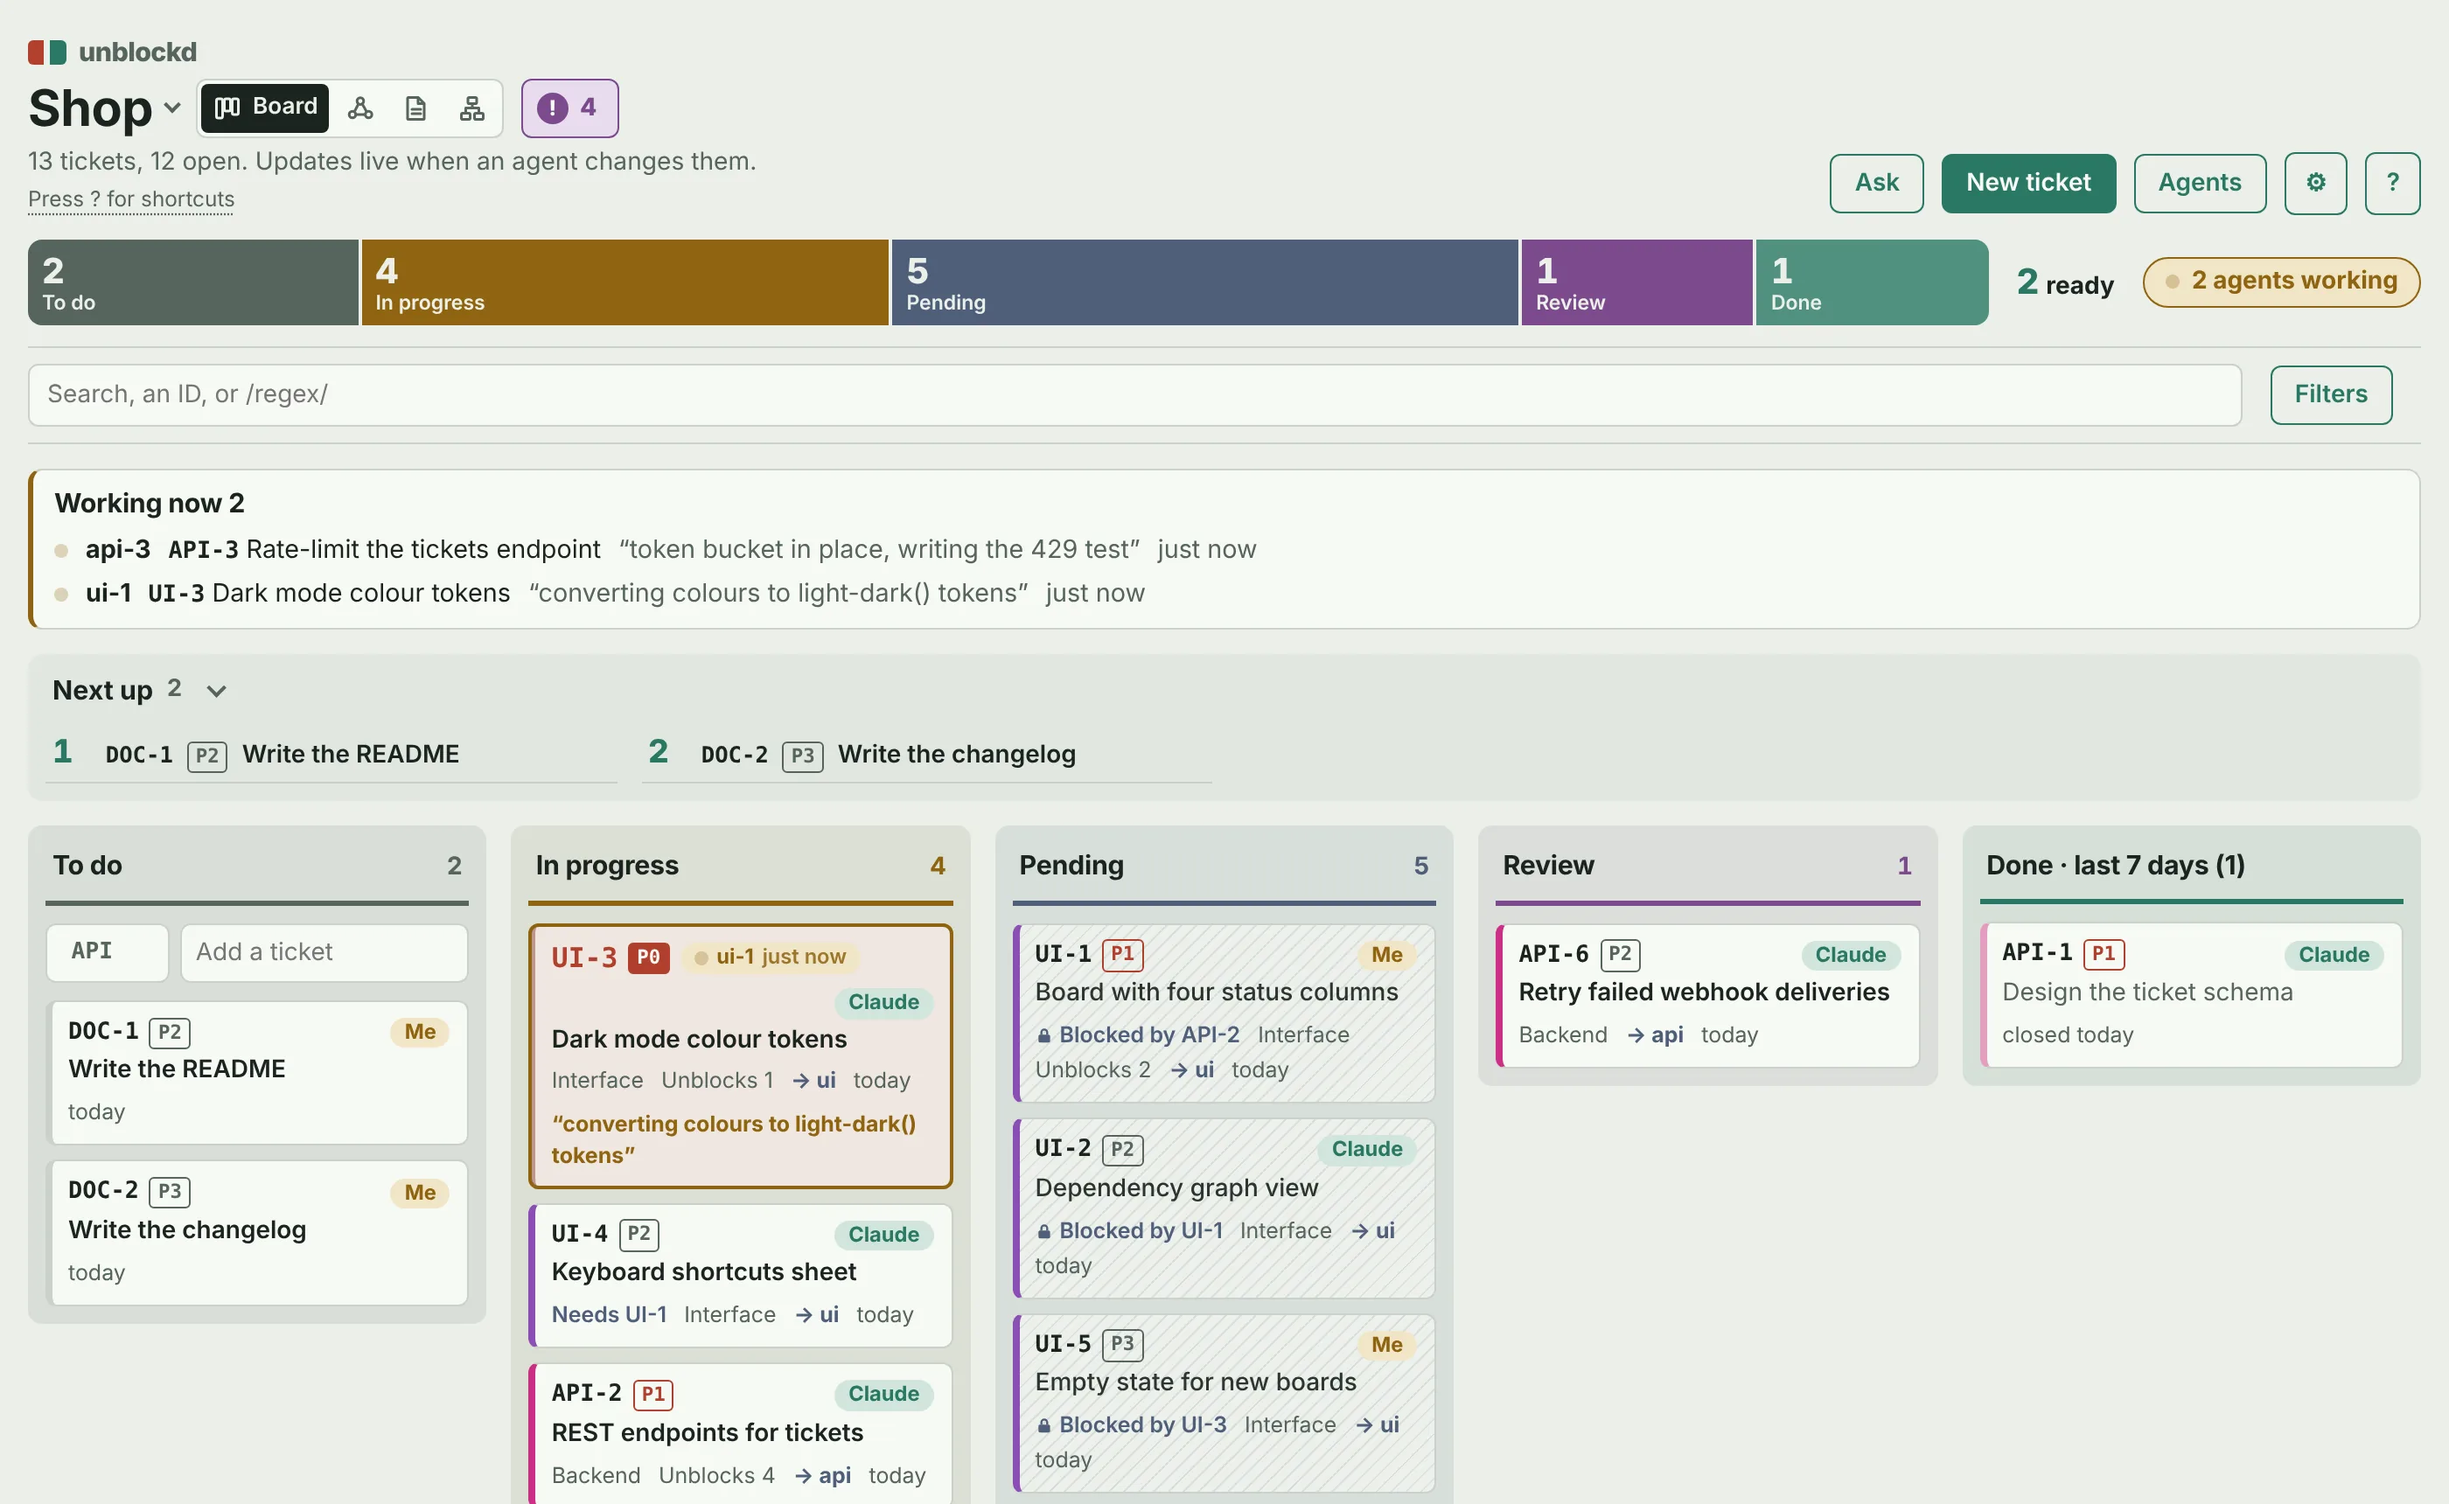
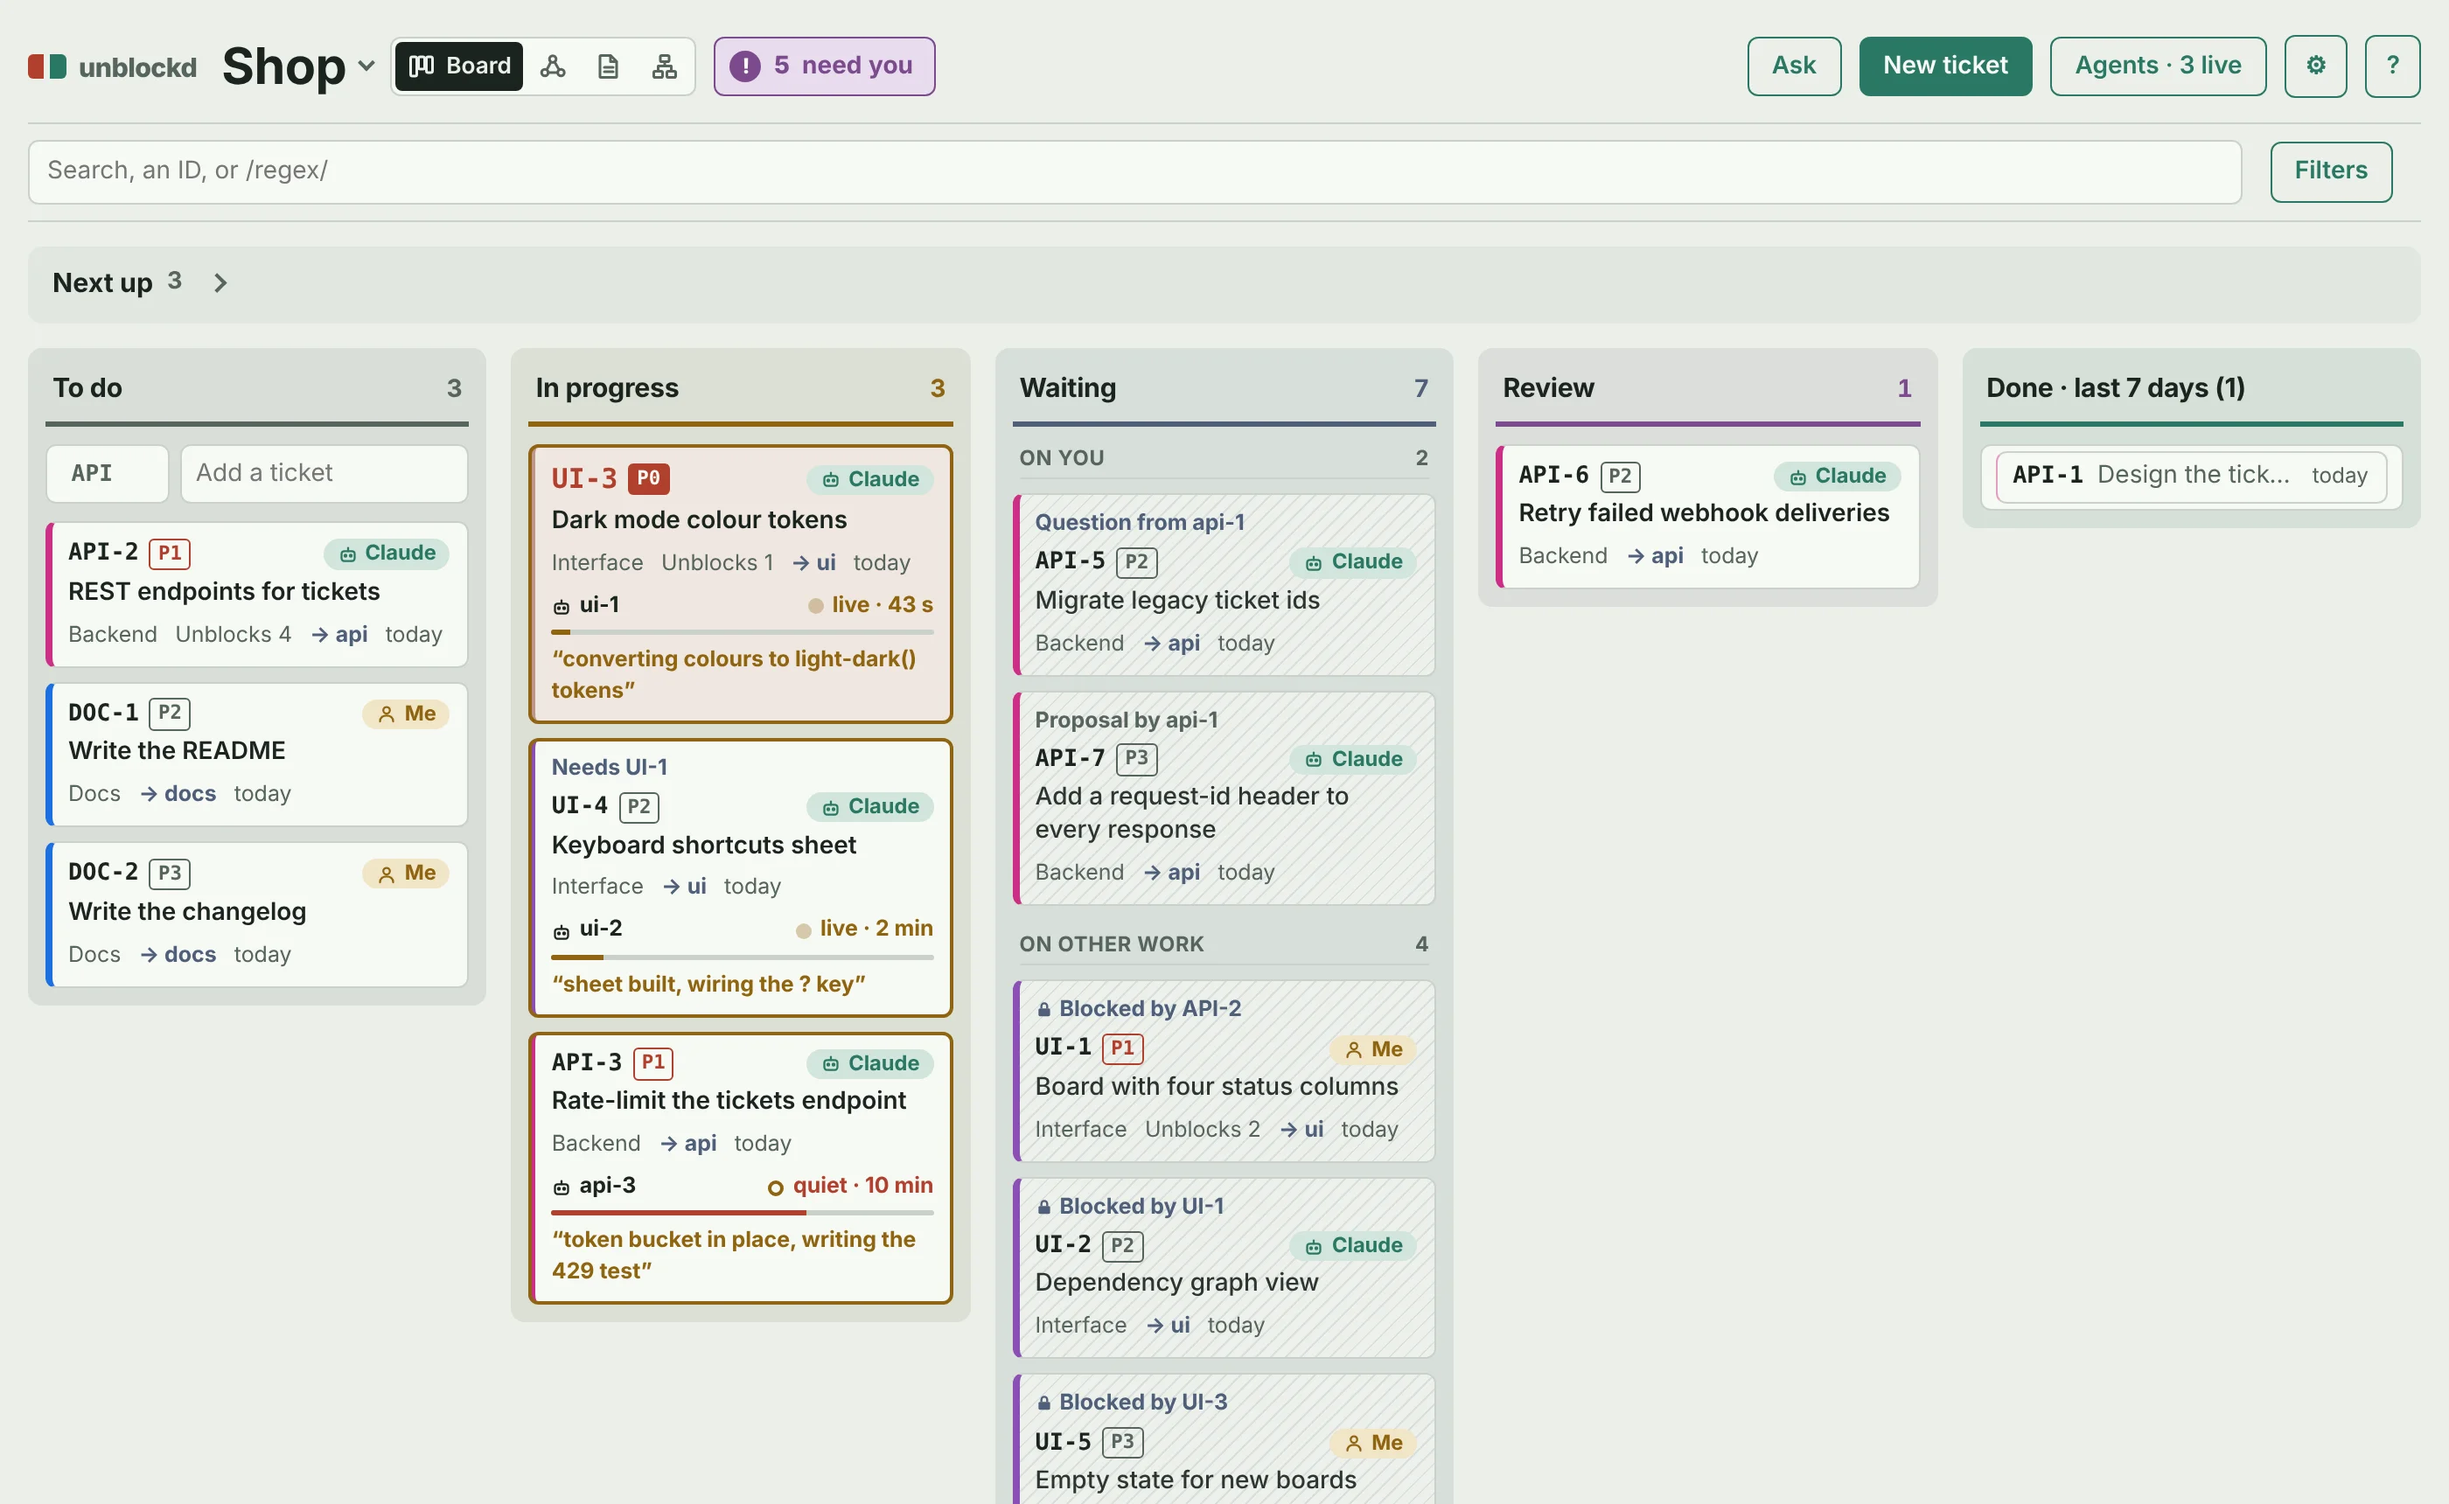
README: new screenshots and text for the Calm Ledger 2 board
Reshoot all 8 README images (same names and sizes) on the new UI: one
header row, live/quiet agents with lease bars, Waiting sections, Needs
you with Request changes. Text: liveness, Waiting sections, j/k, the
Waiting label for pending. Kept near the ~1000-word cap by shortening
the empty-claim sentence (docs/reference.md has the detail).

Claude-Session: https://claude.ai/code/session_014vvqBJFzSt5HM1epdwPoxS

diff --git a/README.md b/README.md
@@ -8,7 +8,7 @@ Tickets are JSON files in your repo: reviewed in PRs next to the code, no SaaS, 
 Front doors: web, MCP, CLI, chat (experimental).
 Humans get a live board and dependency graph; agents get lease-based claims, so several work in parallel.
 
-![unblockd board: agents working, tickets in columns, a badge for what needs you](docs/screenshots/board.webp)
+![unblockd board: live and quiet agents on their cards, Waiting split by reason, a badge for what needs you](docs/screenshots/board.webp)
 
 **Why not Trello / Linear / GitHub Projects?** Those track work for people. A ticket here knows what blocks it, which files it touches and which docs a worker must read, and an agent claims, heartbeats and finishes it through MCP or a CLI.
 
@@ -31,7 +31,7 @@ Humans get a live board and dependency graph; agents get lease-based claims, so 
 docker run -d -p 127.0.0.1:8787:8787 -e UNBLOCKD_ALLOW_OPEN=1 -v "$PWD:/projects" ghcr.io/omri2003/unblockd
 ```
 
-On the board, `g` is the graph, `d` the docs agents read, `?` lists shortcuts.
+On the board, `g` is the graph, `d` the docs agents read, `j`/`k` step through cards, `?` lists shortcuts.
 
 **2. Connect Claude Code** (one shared server for all your projects):
 
@@ -39,7 +39,7 @@ On the board, `g` is the graph, `d` the docs agents read, `?` lists shortcuts.
 claude mcp add --transport http --scope user unblockd http://localhost:8788/mcp
 ```
 
-With `UNBLOCKD_TOKEN` set add `--header "Authorization: Bearer <token>"`. Each repo's CLAUDE.md names its board (snippet in docs/reference.md). Then tell Claude: *"use unblockd: run work_plan and work all ready tickets."* Watch cards move. An empty claim returns `{ticket: null, reason}`: `dry` = nothing ready, `conflict` = ready tickets touch files a live claim holds (retry), `waiting` = work exists but is not ready. With agent profiles (the demo has `frontend`, `backend`), worker names must be `<profile>-N`, e.g. `backend-1`.
+With `UNBLOCKD_TOKEN` set add `--header "Authorization: Bearer <token>"`. Each repo's CLAUDE.md names its board (snippet in docs/reference.md). Then tell Claude: *"use unblockd: run work_plan and work all ready tickets."* Watch cards move. An empty claim says why (`dry`, `conflict` = retry, `waiting`; see docs/reference.md). With agent profiles (the demo has `frontend`, `backend`), worker names must be `<profile>-N`, e.g. `backend-1`.
 
 **3. Without Docker** (Python 3.10+; the board and CLI are stdlib only). Run a copy of the demo project, never `example/` itself:
 
@@ -65,7 +65,7 @@ claude mcp list
 
 Expected: `unblockd: python -m unblockd.mcp_server - Connected`. `PYTHONPATH` must be this checkout (not pip-installed).
 
-**In the UI:** the **Needs you** badge (`i`) collects, across all boards, agents' questions, work awaiting review and stuck tickets; answer, approve or reject inline. The title switches boards (`Shift+B`). Priorities: P0 breaks things now, P1 must happen, P2 should, P3 nice to have (`p` then `0`-`3`).
+**In the UI:** a working agent's card says `live · 40 s` or `quiet · 11 min`, with its lease bar. **Waiting** splits by reason: *On you*, *On other work*, *Parked*. The **Needs you** badge (`i`) collects, across all boards, questions, reviews and stuck tickets; answer, approve or *Request changes…* inline. The title switches boards (`Shift+B`). Priorities: P0 breaks things now, P1 must happen, P2 should, P3 nice to have (`p` then `0`-`3`).
 
 ## What your agents see
 
@@ -79,7 +79,7 @@ Map: an agent on one component gets the contracts of the parts it touches.
 
 | Term | Meaning |
 |---|---|
-| **Ticket** | One JSON file in `<project>/tickets/`. Status `todo`, `doing`, `review`, `done` (`pending` is derived: a todo with an open blocker or a `waiting_on` question). |
+| **Ticket** | One JSON file in `<project>/tickets/`. Status `todo`, `doing`, `review`, `done` (`pending` is derived: a todo with an open blocker or a `waiting_on` question; shown as **Waiting**). |
 | **Ready** | Open, nothing open blocks it, not human-owned, not waiting on a person. Agents only claim ready tickets. |
 | **Blocked / pending** | Derived: a `todo` with an open `blocked_by` is pending until its blockers are done. |
 | **Pillar** | A workstream (UI, API, ...): a colour, filter and graph lane. |
